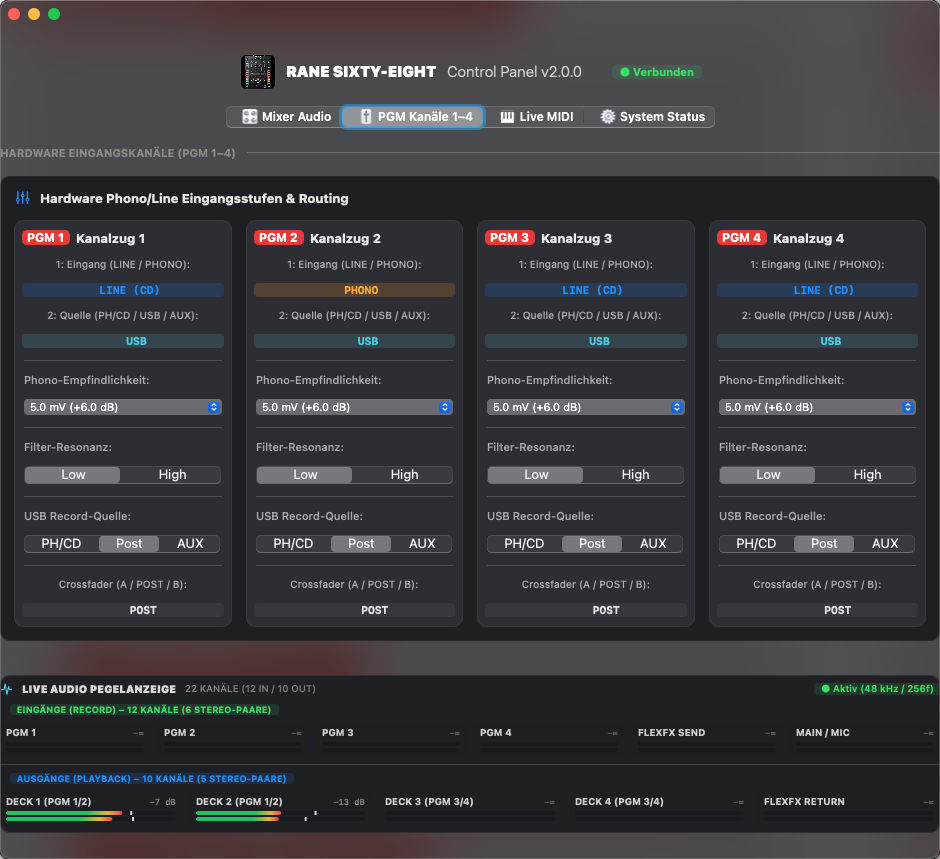
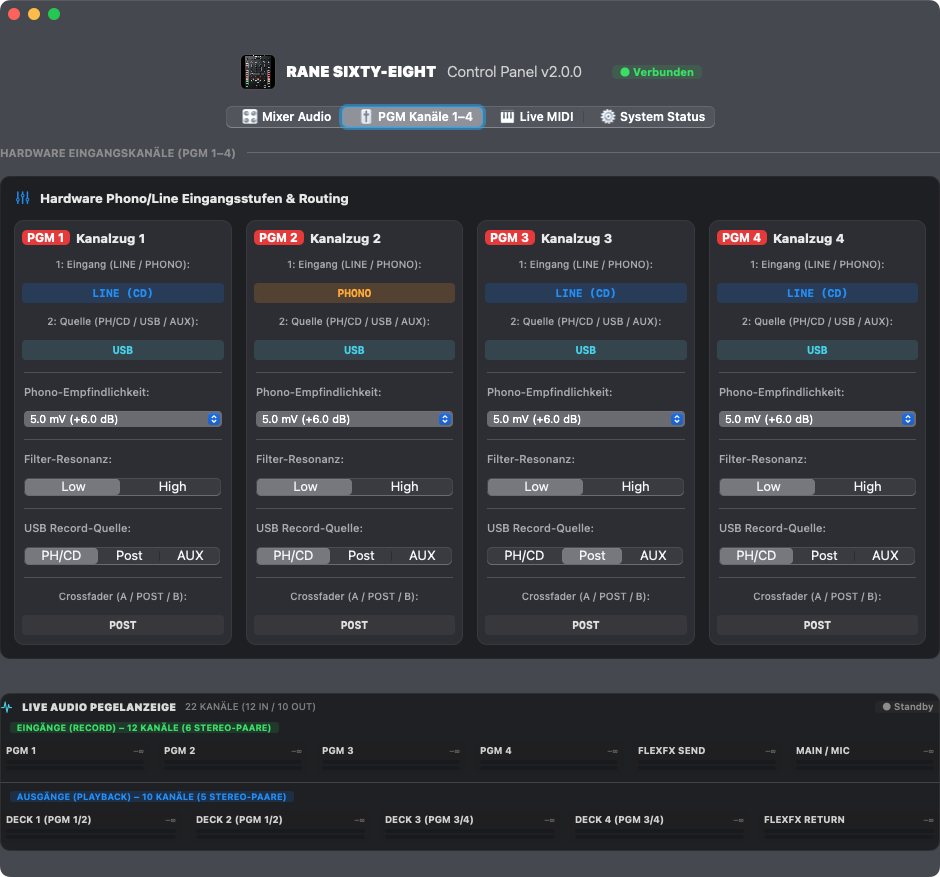
fix(ui): Perfect horizontal and vertical centering for PGM badges and crossfader status

diff --git a/src/manager/Views/Tabs/PgmChannelsTab.swift b/src/manager/Views/Tabs/PgmChannelsTab.swift
@@ -77,26 +77,26 @@ extension MainWindowController {
             f1Title.textColor = NSColor.secondaryLabelColor
             f1Title.alignment = .center
 
-            let inTypeBadge = NSTextField(labelWithString: "  LINE (CD)  ")
-            inTypeBadge.font = NSFont.monospacedSystemFont(ofSize: 11, weight: .bold)
-            inTypeBadge.textColor = NSColor.systemBlue
-            inTypeBadge.alignment = .center
-            inTypeBadge.wantsLayer = true
-            inTypeBadge.layer?.backgroundColor = NSColor.systemBlue.withAlphaComponent(0.18).cgColor
-            inTypeBadge.layer?.cornerRadius = 4
+            let inTypeBadge = PgmBadgeTextField(
+                text: "LINE (CD)",
+                font: NSFont.monospacedSystemFont(ofSize: 11, weight: .bold),
+                textColor: NSColor.systemBlue,
+                bgColor: NSColor.systemBlue.withAlphaComponent(0.18),
+                height: 20
+            )
 
             let f2Title = NSTextField(labelWithString: Localization.tr(en: "2: Source (PH/CD, USB, AUX):", de: "2: Quelle (PH/CD / USB / AUX):"))
             f2Title.font = NSFont.systemFont(ofSize: 10, weight: .medium)
             f2Title.textColor = NSColor.secondaryLabelColor
             f2Title.alignment = .center
 
-            let sourceBadge = NSTextField(labelWithString: "    USB    ")
-            sourceBadge.font = NSFont.monospacedSystemFont(ofSize: 11, weight: .bold)
-            sourceBadge.textColor = NSColor.systemTeal
-            sourceBadge.alignment = .center
-            sourceBadge.wantsLayer = true
-            sourceBadge.layer?.backgroundColor = NSColor.systemTeal.withAlphaComponent(0.18).cgColor
-            sourceBadge.layer?.cornerRadius = 4
+            let sourceBadge = PgmBadgeTextField(
+                text: "USB",
+                font: NSFont.monospacedSystemFont(ofSize: 11, weight: .bold),
+                textColor: NSColor.systemTeal,
+                bgColor: NSColor.systemTeal.withAlphaComponent(0.18),
+                height: 20
+            )
 
             chStack.addArrangedSubview(f1Title)
             f1Title.widthAnchor.constraint(equalTo: chStack.widthAnchor).isActive = true
@@ -173,13 +173,13 @@ extension MainWindowController {
             xfTitle.textColor = NSColor.secondaryLabelColor
             xfTitle.alignment = .center
 
-            let xfBadge = NSTextField(labelWithString: "      POST      ")
-            xfBadge.font = NSFont.monospacedSystemFont(ofSize: 11, weight: .bold)
-            xfBadge.textColor = NSColor(white: 0.88, alpha: 1.0)
-            xfBadge.alignment = .center
-            xfBadge.wantsLayer = true
-            xfBadge.layer?.backgroundColor = NSColor(white: 0.35, alpha: 0.25).cgColor
-            xfBadge.layer?.cornerRadius = 4
+            let xfBadge = PgmBadgeTextField(
+                text: "POST",
+                font: NSFont.monospacedSystemFont(ofSize: 11, weight: .bold),
+                textColor: NSColor(white: 0.88, alpha: 1.0),
+                bgColor: NSColor(white: 0.35, alpha: 0.25),
+                height: 20
+            )
 
             chStack.addArrangedSubview(xfTitle)
             xfTitle.widthAnchor.constraint(equalTo: chStack.widthAnchor).isActive = true

diff --git a/src/manager/Controller/MainWindowController+MIDI.swift b/src/manager/Controller/MainWindowController+MIDI.swift
@@ -136,13 +136,13 @@ extension MainWindowController {
                 let color: NSColor
                 switch value {
                 case 1:
-                    text = "  PHONO  "
+                    text = "PHONO"
                     color = NSColor.systemOrange
                 case 2:
-                    text = "  S/PDIF  "
+                    text = "S/PDIF"
                     color = NSColor.systemPurple
                 default:
-                    text = "  LINE (CD)  "
+                    text = "LINE (CD)"
                     color = NSColor.systemBlue
                 }
                 if channels[chIdx].inputTypeBadge.stringValue != text {
@@ -223,20 +223,20 @@ extension MainWindowController {
                 let color: NSColor
                 switch value {
                 case 1:
-                    text = "  CROSSFADER A  "
+                    text = "CROSSFADER A"
                     color = NSColor.systemOrange
                 case 2:
-                    text = "  CROSSFADER B  "
+                    text = "CROSSFADER B"
                     color = NSColor.systemBlue
                 default:
-                    text = "      POST      "
+                    text = "POST"
                     color = NSColor(white: 0.88, alpha: 1.0)
                 }
                 if channels[chIdx].crossfaderBadge.stringValue != text {
                     channels[chIdx].crossfaderBadge.stringValue = text
                     channels[chIdx].crossfaderBadge.textColor = color
                     channels[chIdx].crossfaderBadge.layer?.backgroundColor = color.withAlphaComponent(0.18).cgColor
-                    appendMidiLog("IN: PGM \(chIdx + 1) Crossfader -> [\(text.trimmingCharacters(in: .whitespaces))] (CC#\(cc)=\(value))")
+                    appendMidiLog("IN: PGM \(chIdx + 1) Crossfader -> [\(text)] (CC#\(cc)=\(value))")
                 }
             }
         } else if cc >= 116 && cc <= 119 {
@@ -248,16 +248,16 @@ extension MainWindowController {
                 let color: NSColor
                 switch value {
                 case 1, 2:
-                    text = "  PH / CD  "
+                    text = "PH / CD"
                     color = NSColor.systemOrange
                 case 3, 4:
-                    text = "    USB    "
+                    text = "USB"
                     color = NSColor.systemTeal
                 case 5, 6:
-                    text = "    AUX    "
+                    text = "AUX"
                     color = NSColor.systemGreen
                 default:
-                    text = "  PH / CD  "
+                    text = "PH / CD"
                     color = NSColor.systemOrange
                 }
                 if channels[chIdx].sourceBadge.stringValue != text {

diff --git a/src/manager/Views/Components/UIComponents.swift b/src/manager/Views/Components/UIComponents.swift
@@ -286,3 +286,45 @@ extension MainWindowController {
         return valueField
     }
 }
+
+// MARK: - Vertically Centered Badge Field
+final class VerticallyCenteredTextFieldCell: NSTextFieldCell {
+    override func drawingRect(forBounds theRect: NSRect) -> NSRect {
+        var rect = super.drawingRect(forBounds: theRect)
+        let size = cellSize(forBounds: theRect)
+        let delta = theRect.height - size.height
+        if delta > 0 {
+            rect.origin.y += (delta / 2.0).rounded()
+            rect.size.height -= delta
+        }
+        return rect
+    }
+}
+
+final class PgmBadgeTextField: NSTextField {
+    override class var cellClass: AnyClass? {
+        get { return VerticallyCenteredTextFieldCell.self }
+        set {}
+    }
+
+    init(text: String, font: NSFont, textColor: NSColor, bgColor: NSColor, height: CGFloat = 20) {
+        super.init(frame: .zero)
+        self.cell = VerticallyCenteredTextFieldCell(textCell: text)
+        self.isEditable = false
+        self.isSelectable = false
+        self.isBordered = false
+        self.drawsBackground = false
+        self.alignment = .center
+        self.font = font
+        self.textColor = textColor
+        self.wantsLayer = true
+        self.layer?.backgroundColor = bgColor.cgColor
+        self.layer?.cornerRadius = 4
+        self.translatesAutoresizingMaskIntoConstraints = false
+        self.heightAnchor.constraint(equalToConstant: height).isActive = true
+    }
+
+    required init?(coder: NSCoder) {
+        fatalError("init(coder:) has not been implemented")
+    }
+}
